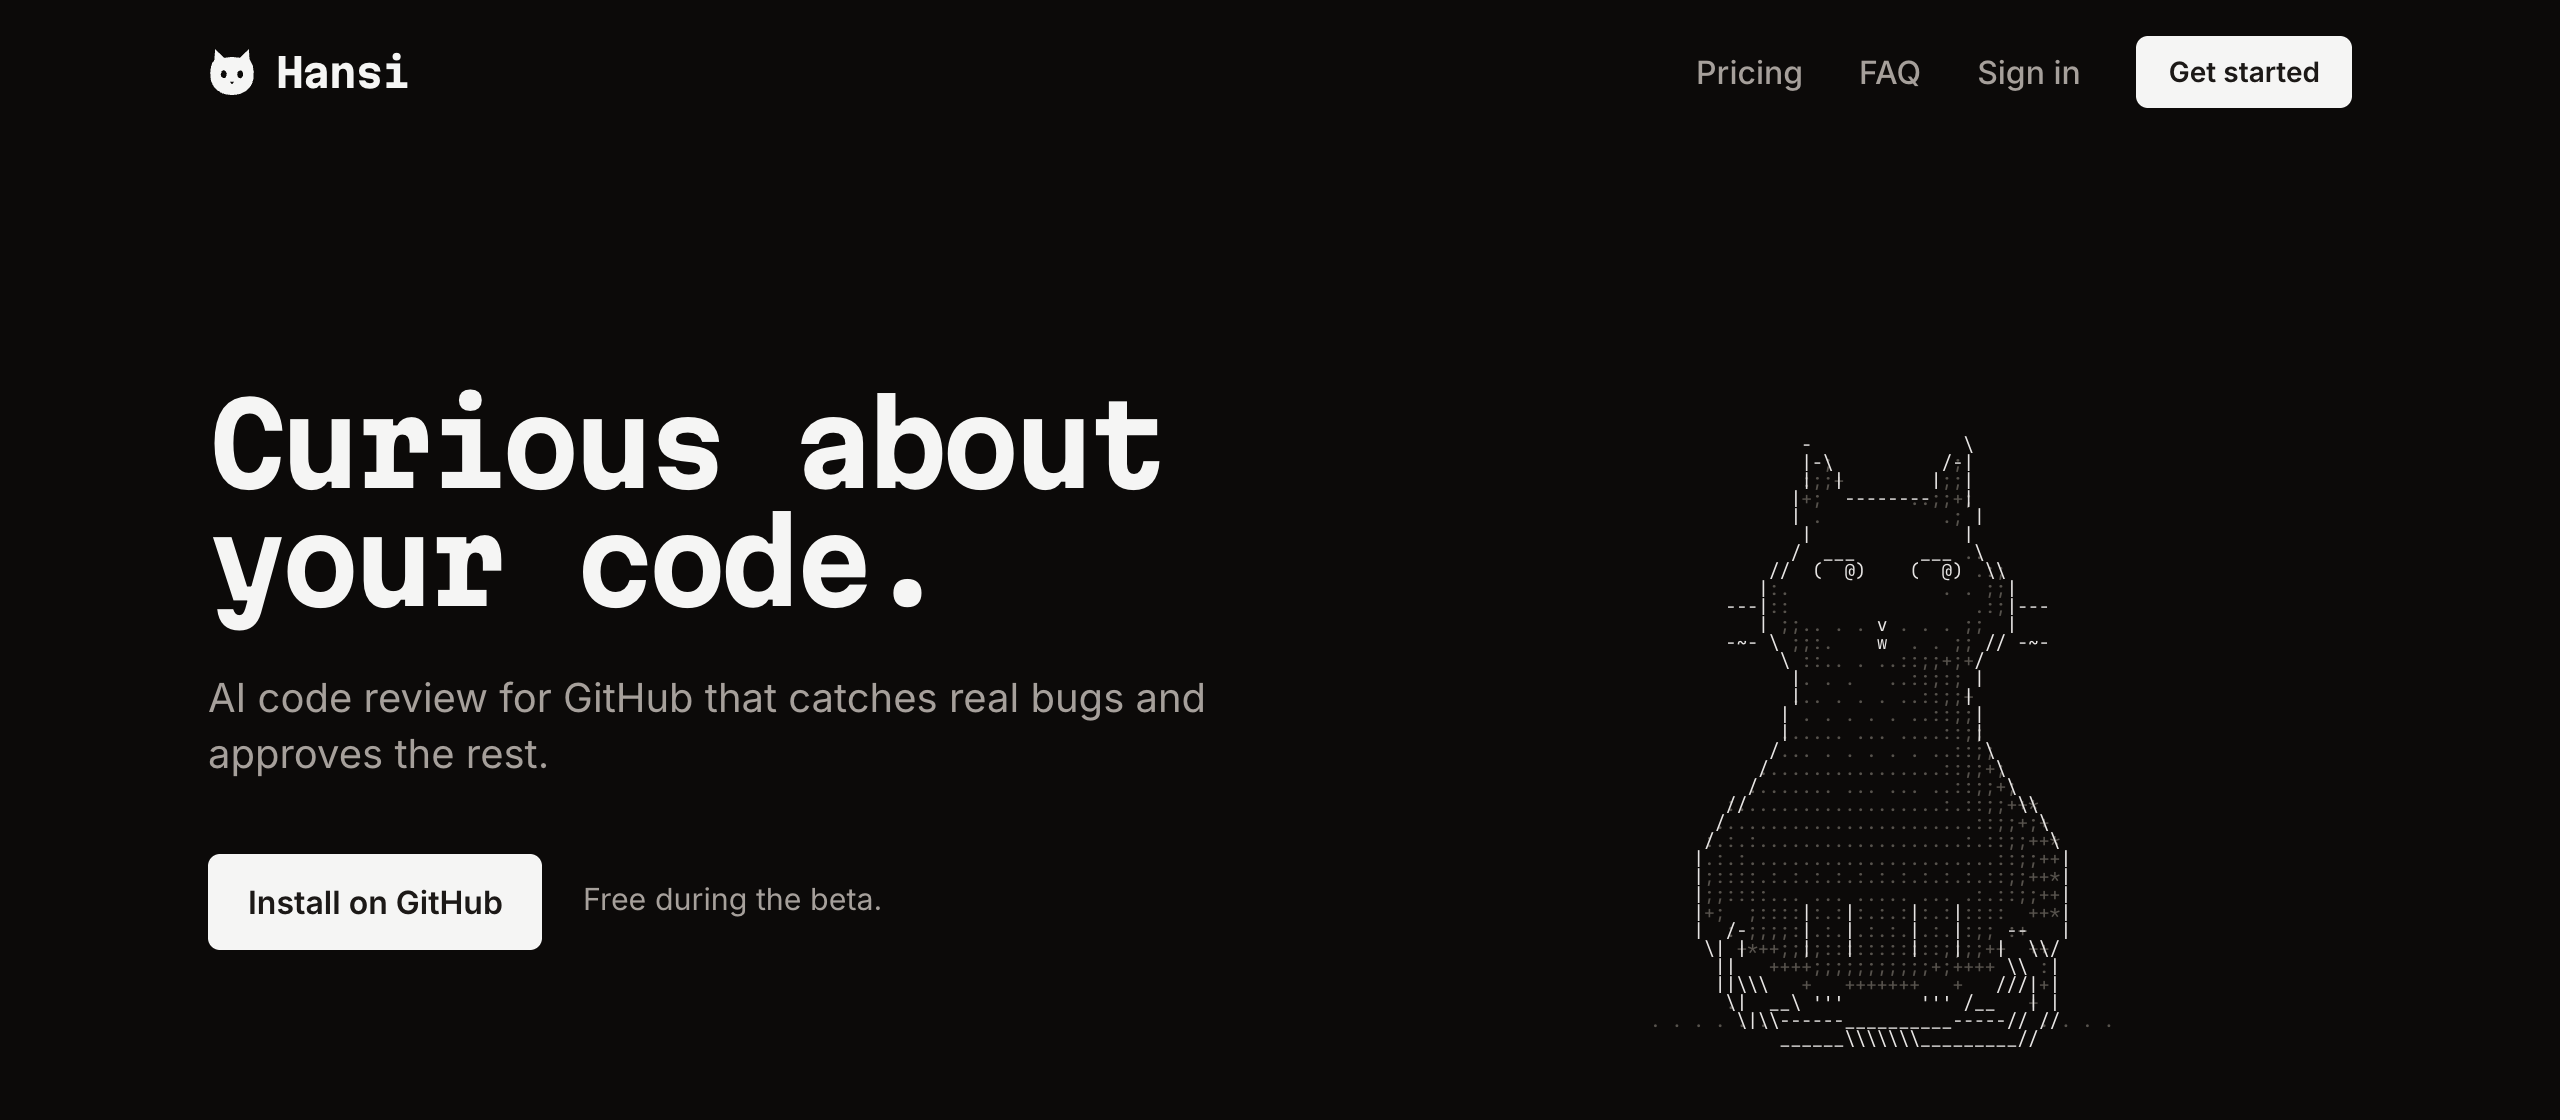
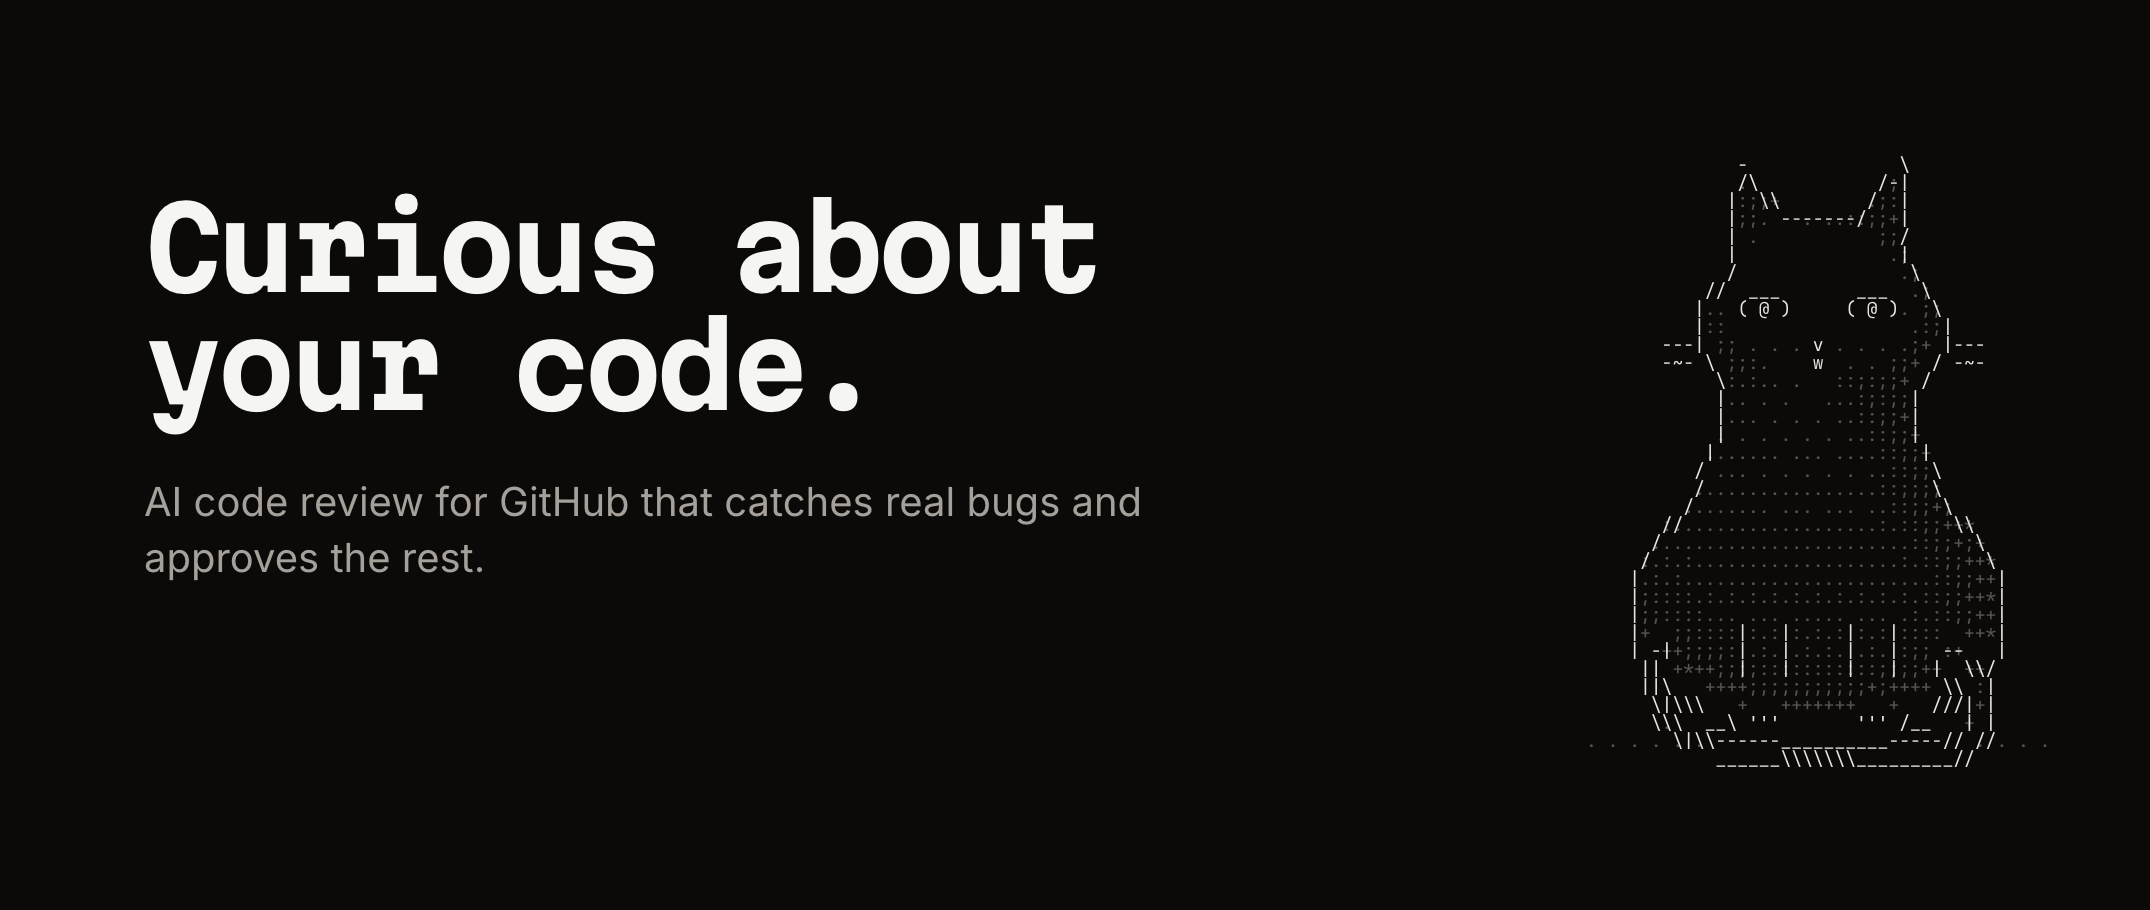
README: cleaner hero image, just the headline and the cat

diff --git a/README.md b/README.md
@@ -4,7 +4,7 @@
 
 <picture>
   <source media="(prefers-color-scheme: dark)" srcset=".github/assets/hero-dark.png">
-  <img alt="Hansi: Curious about your code. AI code review for GitHub that catches real bugs and approves the rest." src=".github/assets/hero-light.png">
+  <img alt="Curious about your code. AI code review for GitHub that catches real bugs and approves the rest. Next to it, Hansi the cat in ASCII art." src=".github/assets/hero-light.png">
 </picture>
 
 Open-source, self-hostable AI code review for GitHub pull requests. Bring your own key for OpenAI,
